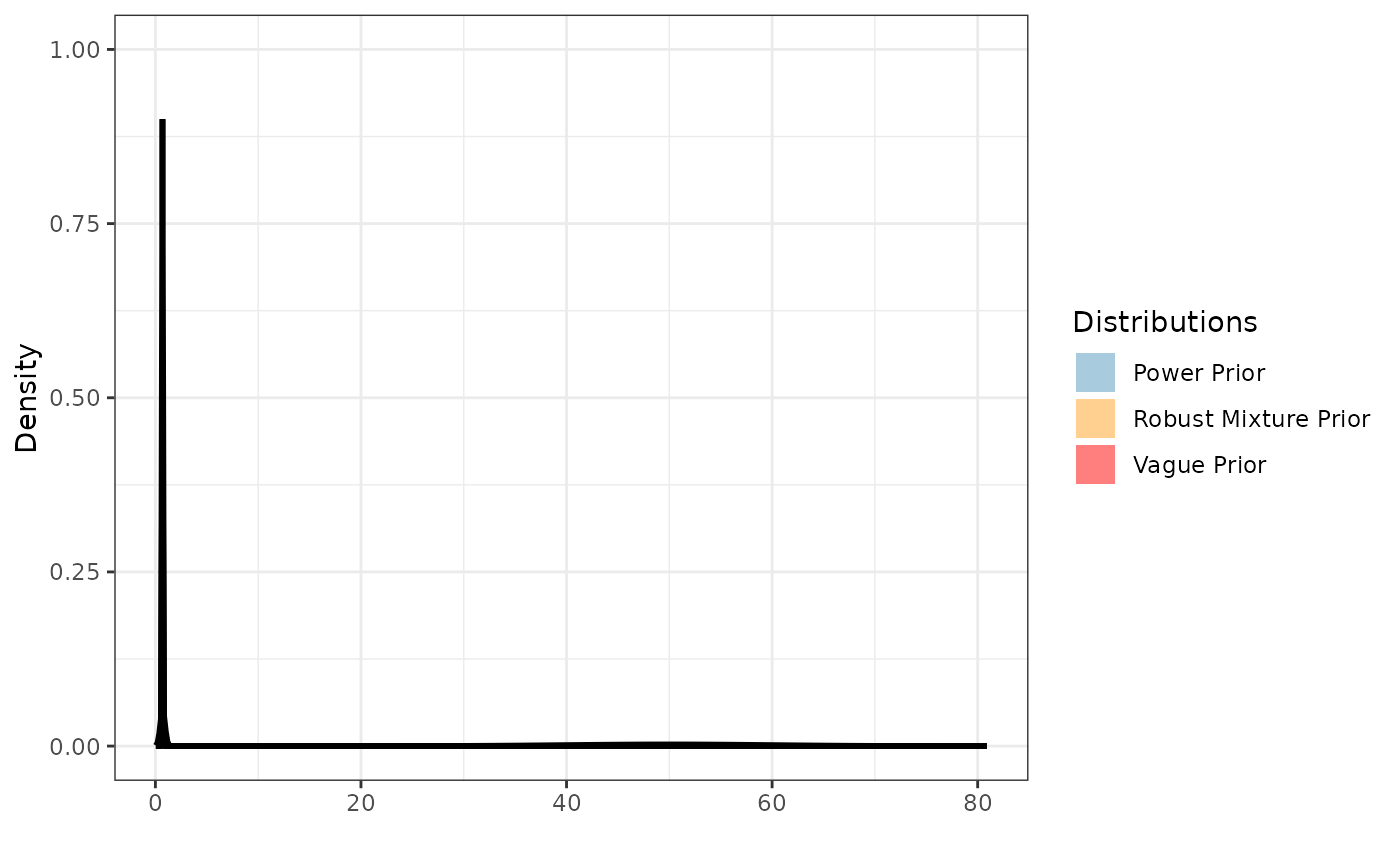
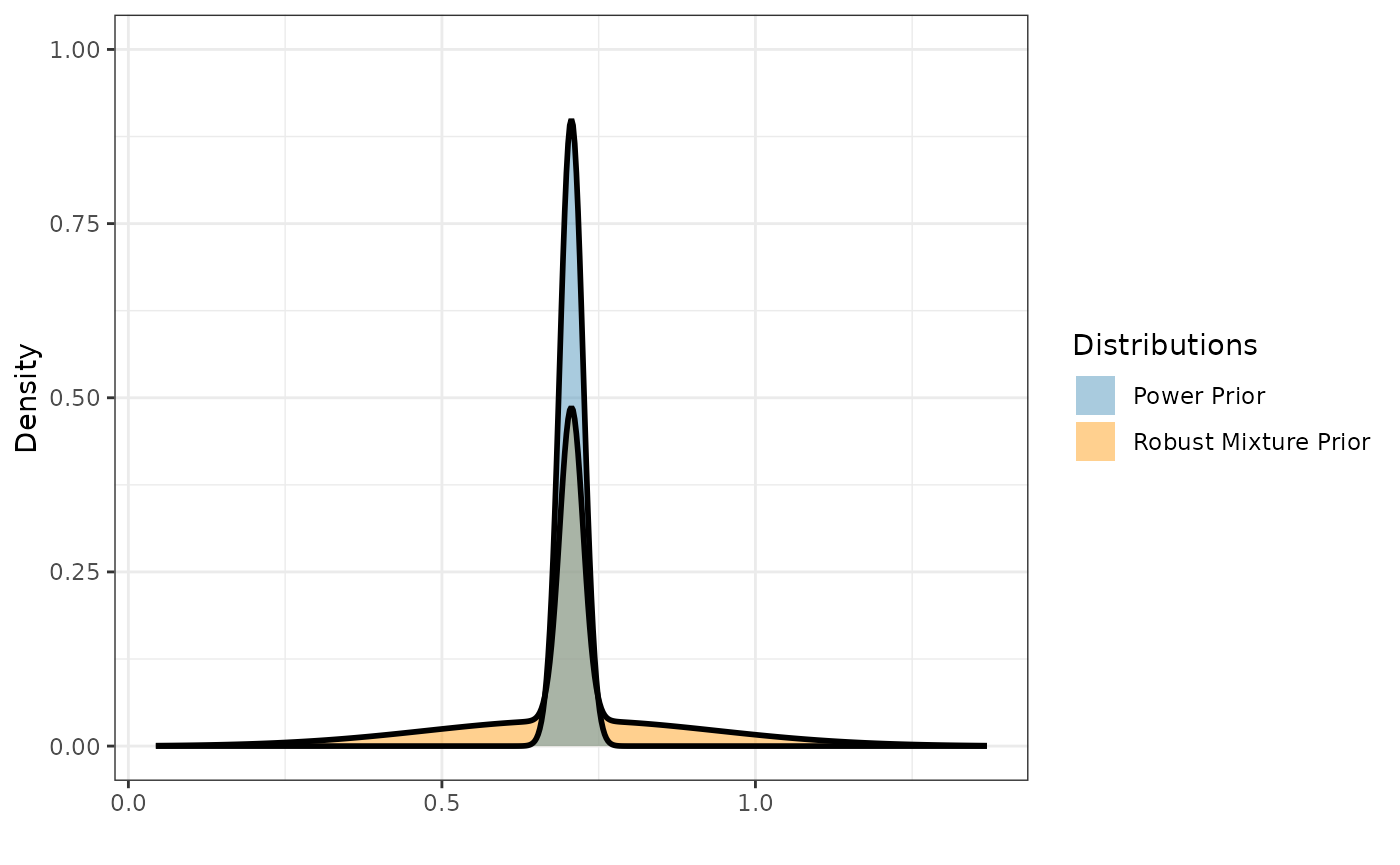
Deploying to gh-pages from @ GSK-Biostatistics/beastt@606c787536f528e3b69b3640928a28298a4a276e 🚀

diff --git a/articles/continuous.html b/articles/continuous.html
@@ -311,9 +311,7 @@ distribution, the prior will be approximated with the mixture of two
 normal distributions.</p>
 <div class="sourceCode" id="cb8"><pre class="downlit sourceCode r">
 <code class="sourceCode R"><span><span class="va">mixed_prior</span> <span class="op">&lt;-</span> <span class="fu"><a href="../reference/robustify_norm.html">robustify_norm</a></span><span class="op">(</span><span class="va">pwr_prior</span>, <span class="va">n_external</span><span class="op">)</span></span>
-<span><span class="va">vague</span> <span class="op">&lt;-</span> <span class="fu"><a href="https://pkg.mitchelloharawild.com/distributional/reference/dist_normal.html" class="external-link">dist_normal</a></span><span class="op">(</span><span class="fl">50</span>, <span class="fl">10</span><span class="op">)</span></span>
-<span><span class="fu"><a href="../reference/plot_dist.html">plot_dist</a></span><span class="op">(</span><span class="st">"Vague Prior"</span> <span class="op">=</span> <span class="va">vague</span>,</span>
-<span>          <span class="st">"Robust Mixture Prior"</span> <span class="op">=</span> <span class="va">mixed_prior</span>,</span>
+<span><span class="fu"><a href="../reference/plot_dist.html">plot_dist</a></span><span class="op">(</span><span class="st">"Robust Mixture Prior"</span> <span class="op">=</span> <span class="va">mixed_prior</span>,</span>
 <span>          <span class="st">"Power Prior"</span> <span class="op">=</span> <span class="va">pwr_prior</span><span class="op">)</span></span></code></pre></div>
 <p><img src="continuous_files/figure-html/unnamed-chunk-7-1.png" width="700"></p>
 <p>The resulting posterior distribution will also be a mixture of normal
